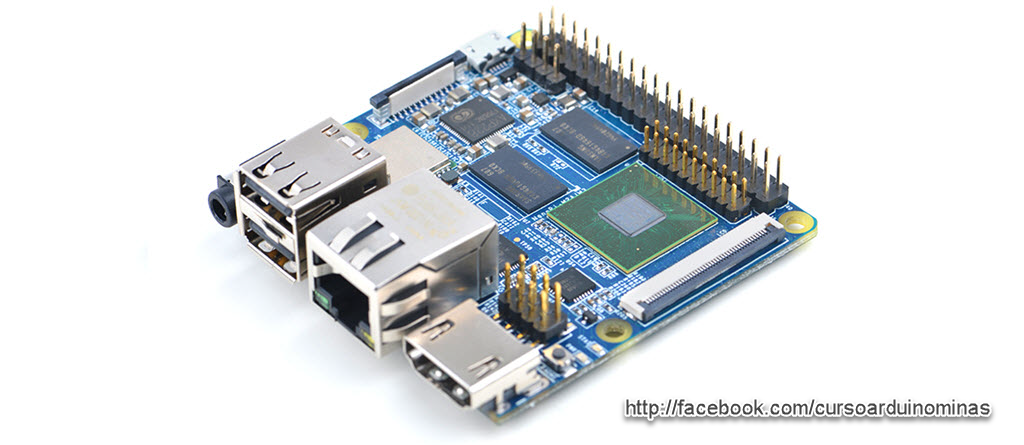
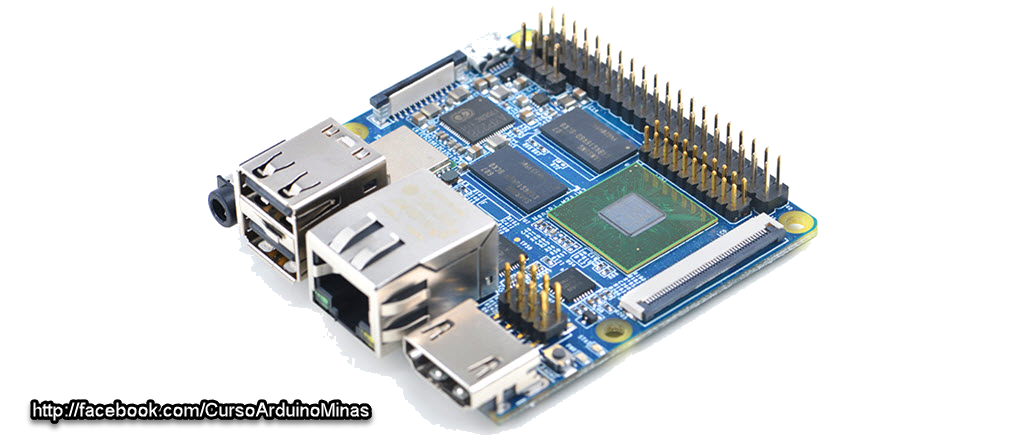
Correção na imagem para não haver no corte do nome principal
Correção no texto

diff --git a/_posts/embarcados/2016-10-13-Contando_Bicicletas_NanoPI.md b/_posts/embarcados/2016-10-13-Contando_Bicicletas_NanoPI.md
@@ -10,8 +10,8 @@ feature:
  category: true
  index: true
 image:
- feature: /embarcados/nanopi-m3-03-1024x445.png
- teaser: /embarcados/nanopi-m3-03-300x174.png
+ feature: embarcados/nanopi-m3-03-1024x445.png
+ teaser: embarcados/nanopi-m3-03-300x174.png
 ads: 
  show: true
 tagcloud: true
